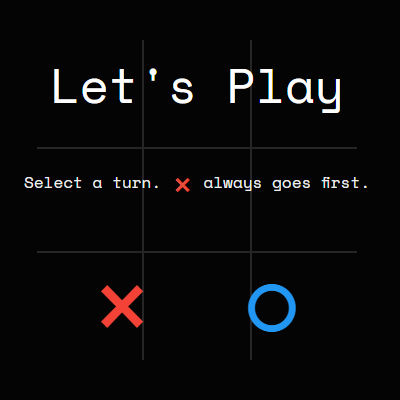
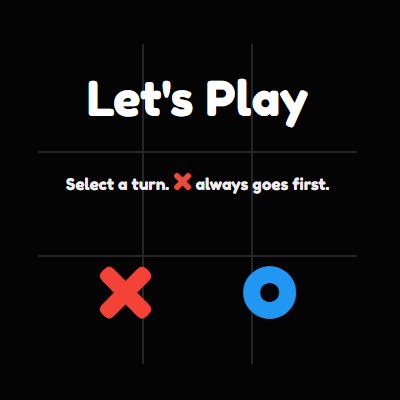
update thumbnail

diff --git a/projects/tic-tac-toe/index.html b/projects/tic-tac-toe/index.html
@@ -1,56 +1,54 @@
 <!DOCTYPE html>
 <html lang="en" >
 
-<head>
-  <meta charset="UTF-8">
-  <title>Tic Tac Toe minimax</title>
-  <link href='https://fonts.googleapis.com/css?family=Space+Mono:400,300,600' rel='stylesheet' type='text/css'>
+  <head>
+    <meta charset="UTF-8">
+    <meta name="viewport" content="width=device-width, initial-scale=1">
+    <title>Tic Tac Toe minimax</title>
+    <link href="https://fonts.googleapis.com/css?family=Fredoka+One" rel="stylesheet">
+    <link rel="stylesheet" href="css/style.css">
+  </head>
+
+  <body>
+
+    <!-- player select screen -->
+    <div class="overlay">
+      <div class="winner">
+        <h1 class="announce"></h1>
+        <p class="info">Select a turn. <span class="x-info">x</span> always goes first.</p>
+        <div class="select x" data-value="1">x</div>
+        <div class="select o" data-value="-1">o</div>
+      </div>
+    </div>
+
+    <!-- score board -->
+    <div class="statistics">
+      <div class="stat player-score">Player: 0</div>
+      <div class="stat game-count">Game: 0</div>
+      <div class="stat cpu-score">CPU: 0</div>
+    </div>
 
 
-      <link rel="stylesheet" href="css/style.css">
+    <!-- game board -->
+    <div class="container">
+      <div class="tictactoe-lines">
+        <div class="box b0" data-value="0"></div>
+        <div class="box b1" data-value="1"></div>
+        <div class="box b2" data-value="2"></div>
+        <div class="box b3" data-value="3"></div>
+        <div class="box b4" data-value="4"></div>
+        <div class="box b5" data-value="5"></div>
+        <div class="box b6" data-value="6"></div>
+        <div class="box b7" data-value="7"></div>
+        <div class="box b8" data-value="8"></div>
+      </div>
+    </div>
 
-
-</head>
-
-<body>
-
-  <div class="overlay">
-  <div class="winner">
-    <h1 class="announce"></h1>
-    <p class="info">Select a turn. <span class="x-info">&Cross;</span> always goes first.</p>
-    <div class="select x" data-value="1">&Cross;</div>
-    <div class="select o" data-value="-1">&cir;</div>
-  </div>
-</div>
-
-<div class="statistics">
-  <div class="stat player-score">Player: 0</div>
-  <div class="stat game-count">Game: 0</div>
-  <div class="stat cpu-score">CPU: 0</div>
-</div>
-
-<div class="container">
-  <div class="tictactoe-lines">
-    <div class="box b0" data-value="0"></div>
-    <div class="box b1" data-value="1"></div>
-    <div class="box b2" data-value="2"></div>
-    <div class="box b3" data-value="3"></div>
-    <div class="box b4" data-value="4"></div>
-    <div class="box b5" data-value="5"></div>
-    <div class="box b6" data-value="6"></div>
-    <div class="box b7" data-value="7"></div>
-    <div class="box b8" data-value="8"></div>
-  </div>
-</div>
-  <script src='http://cdnjs.cloudflare.com/ajax/libs/jquery/2.1.3/jquery.min.js'></script>
-
-
-
+    <!-- scripts -->
+    <script src='http://cdnjs.cloudflare.com/ajax/libs/jquery/2.1.3/jquery.min.js'></script>
     <script  src="js/index.js"></script>
 
 
-
-
-</body>
+  </body>
 
 </html>

diff --git a/projects/tic-tac-toe/css/style.css b/projects/tic-tac-toe/css/style.css
@@ -6,10 +6,9 @@ html, body {
 
 body {
   display: flex;
-  /* background: url("http://imgh.us/tictactoe-bg.jpeg") no-repeat center center fixed; */
   background-size: cover;
   text-align: center;
-  font-family: 'Space Mono', monospace;
+  font-family: 'Fredoka One', monospace;
   background-color: #1d1e22;
 }
 
@@ -42,8 +41,6 @@ body {
 
 .x-info {
   font-size: 2em;
-  position: relative;
-  top: 6px;
   color: #e74c3c;
 }
 
@@ -63,12 +60,10 @@ body {
 }
 
 .x {
-  /* background-image: url("../img/cross.svg"); */
   color: #f44336;
 }
 
 .o {
-  /* background-image: url("../img/circle.png"); */
   color: #2196f3;
 }
 
@@ -104,8 +99,6 @@ body {
   display: flex;
   width: 100%;
   z-index: 1;
-  min-height: 320px;
-  min-width: 320px;
 }
 
 .stat {
@@ -113,7 +106,6 @@ body {
 }
 
 .tictactoe-lines {
-  /* background-image: url("https://images.sampletemplates.com/wp-content/uploads/2016/03/29122827/Sample-Tic-Tac-Toe-Template.jpg"); */
   background-size: 100% 100%;
   background-position: center center;
   background-repeat: no-repeat;
@@ -124,15 +116,15 @@ body {
 }
 
 .box {
-  /*background: rgba(0,0,0,.5);*/
   width: 33.3%;
   height: 33.3%;
   background-size: 100% 100%;
   background-position: center center;
   box-sizing: border-box;
   border-color: white;
-  font-size: 6em;
+  font-size: 5.5em;
   line-height: 1em;
+  cursor: pointer;
 }
 
 .b0 {

diff --git a/projects/tic-tac-toe/js/index.js b/projects/tic-tac-toe/js/index.js
@@ -1,7 +1,7 @@
 var board = [0,0,0,0,0,0,0,0,0]; //Each number represents each box. 0 = empty.
 var player, cpu; //Global variables that will contain 1 or -1. Used for determining turn.
 var gameCount = 0, playerScore = 0, cpuScore = 0; //Score and game count variables
-var circle = "&cir;", cross = "&Cross;"; //Images for our shapes
+var circle = "o", cross = "x"; //Images for our shapes
 
 //INITIALIZE:
 redraw();
